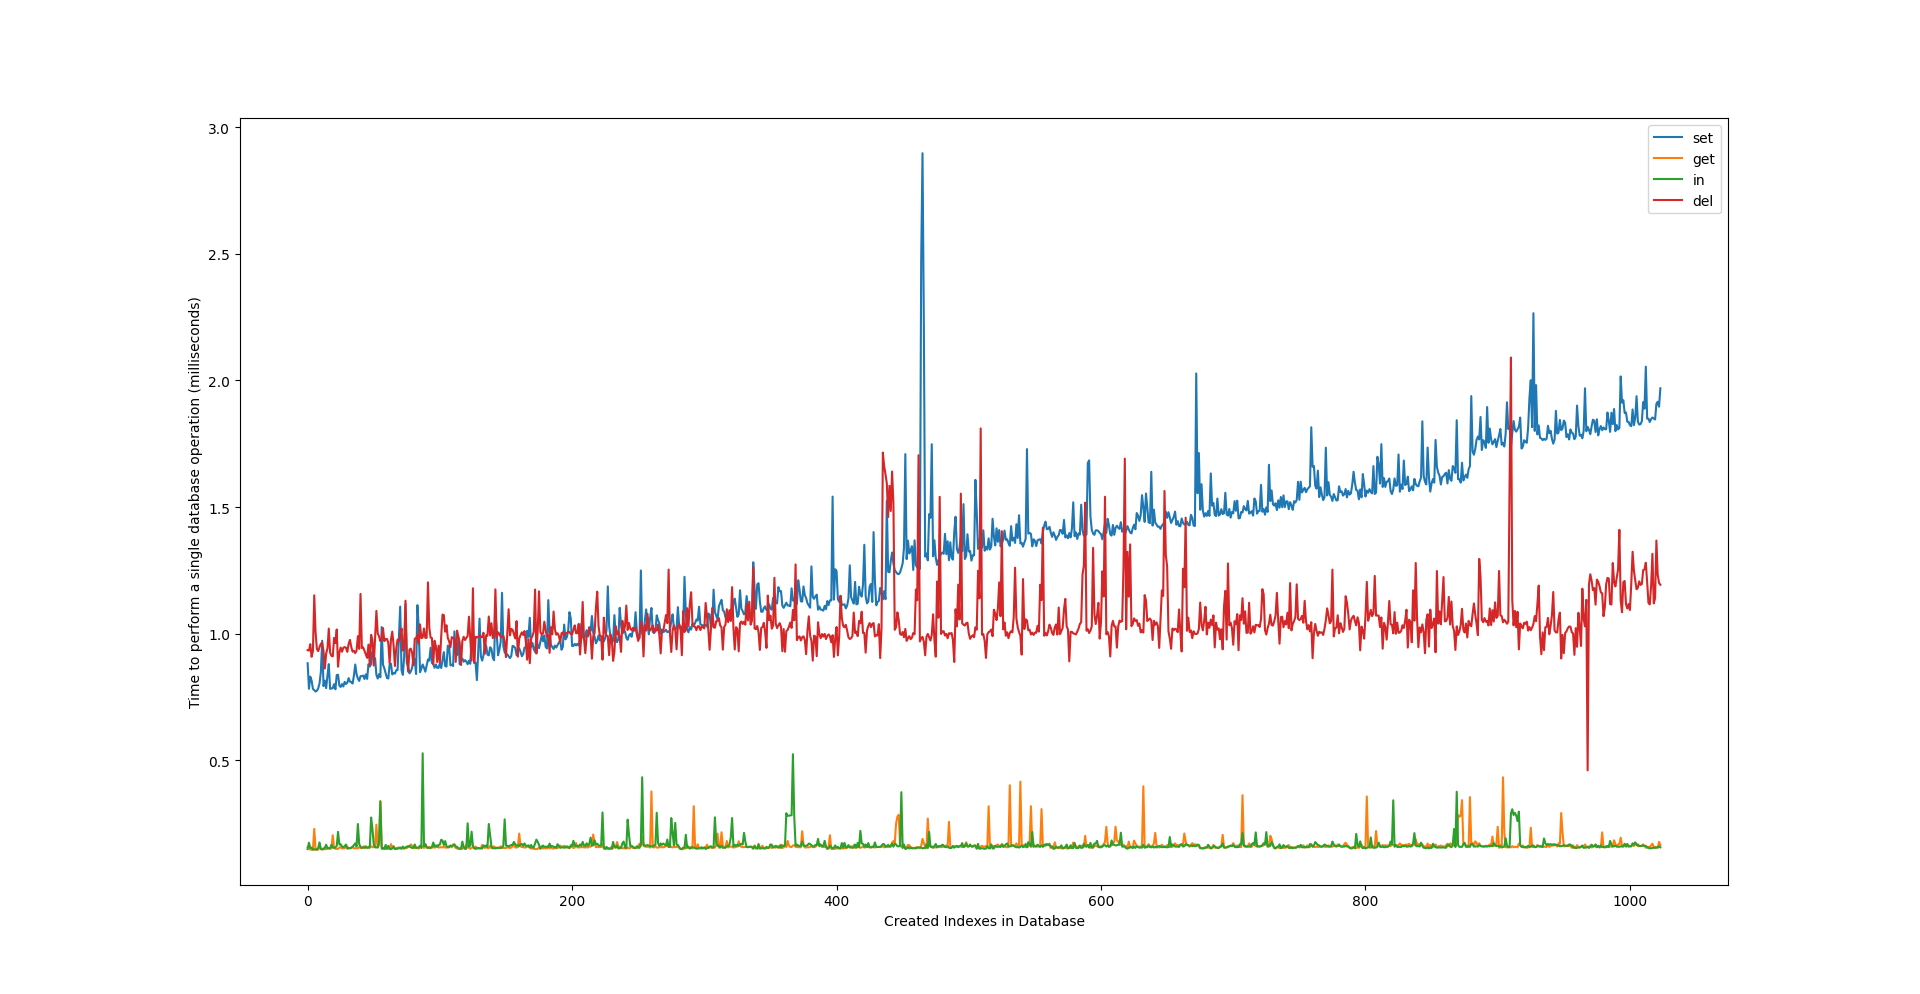
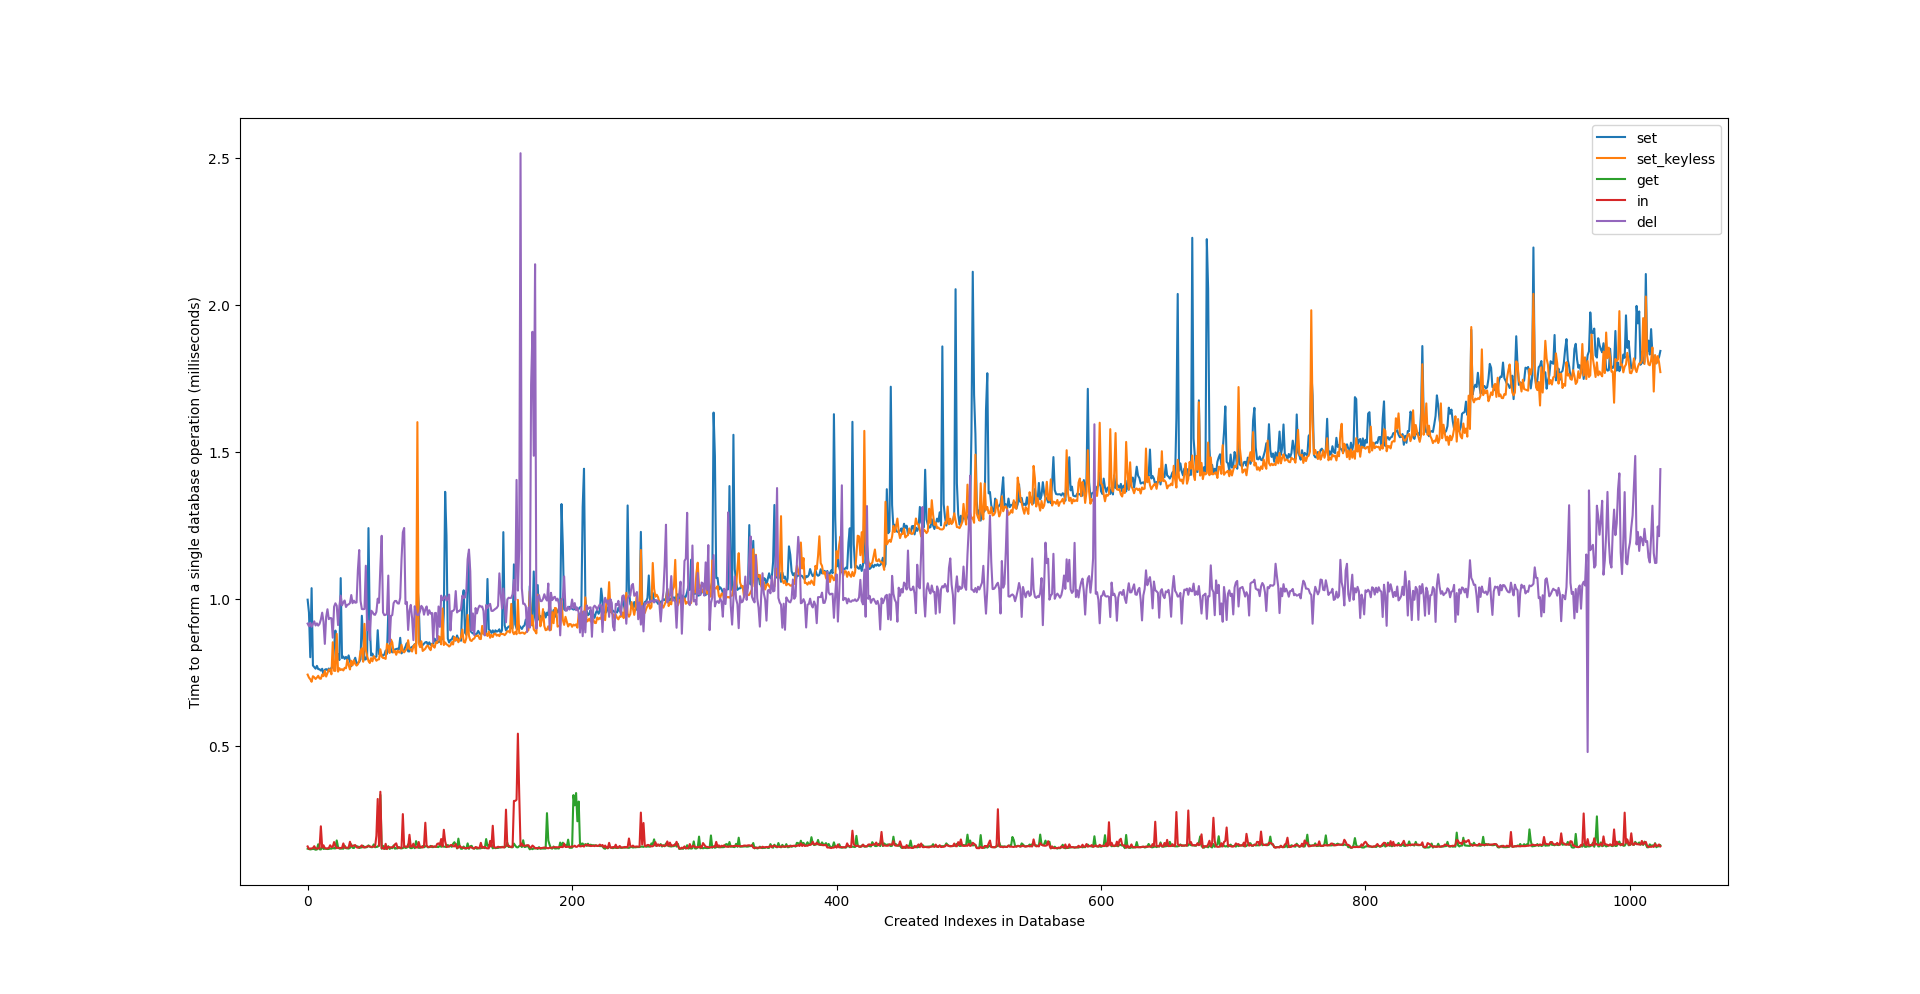
New individual operation benchmark graph

Changed region(s): [[0.1562, 0.2807, 0.875, 0.7173], [0.1562, 0.8109, 0.875, 0.8732], [0.8438, 0.1247, 0.9062, 0.2495]]

diff --git a/yunyun.py b/yunyun.py
@@ -1115,6 +1115,9 @@ if __name__ == '__main__':
     sobj = Shelve(FILENAME)
     ax.plot(*testset(sobj, 1024), label='set')
     pulverise_original()
+    with InstanceLockedShelve(FILENAME) as sobj:
+        ax.plot(*testset(sobj, 1024), label='set_keyless')
+    pulverise_original()
     sobj = Shelve(FILENAME)
     ax.plot(*testget(sobj, 1024), label='get')
     pulverise_original()
